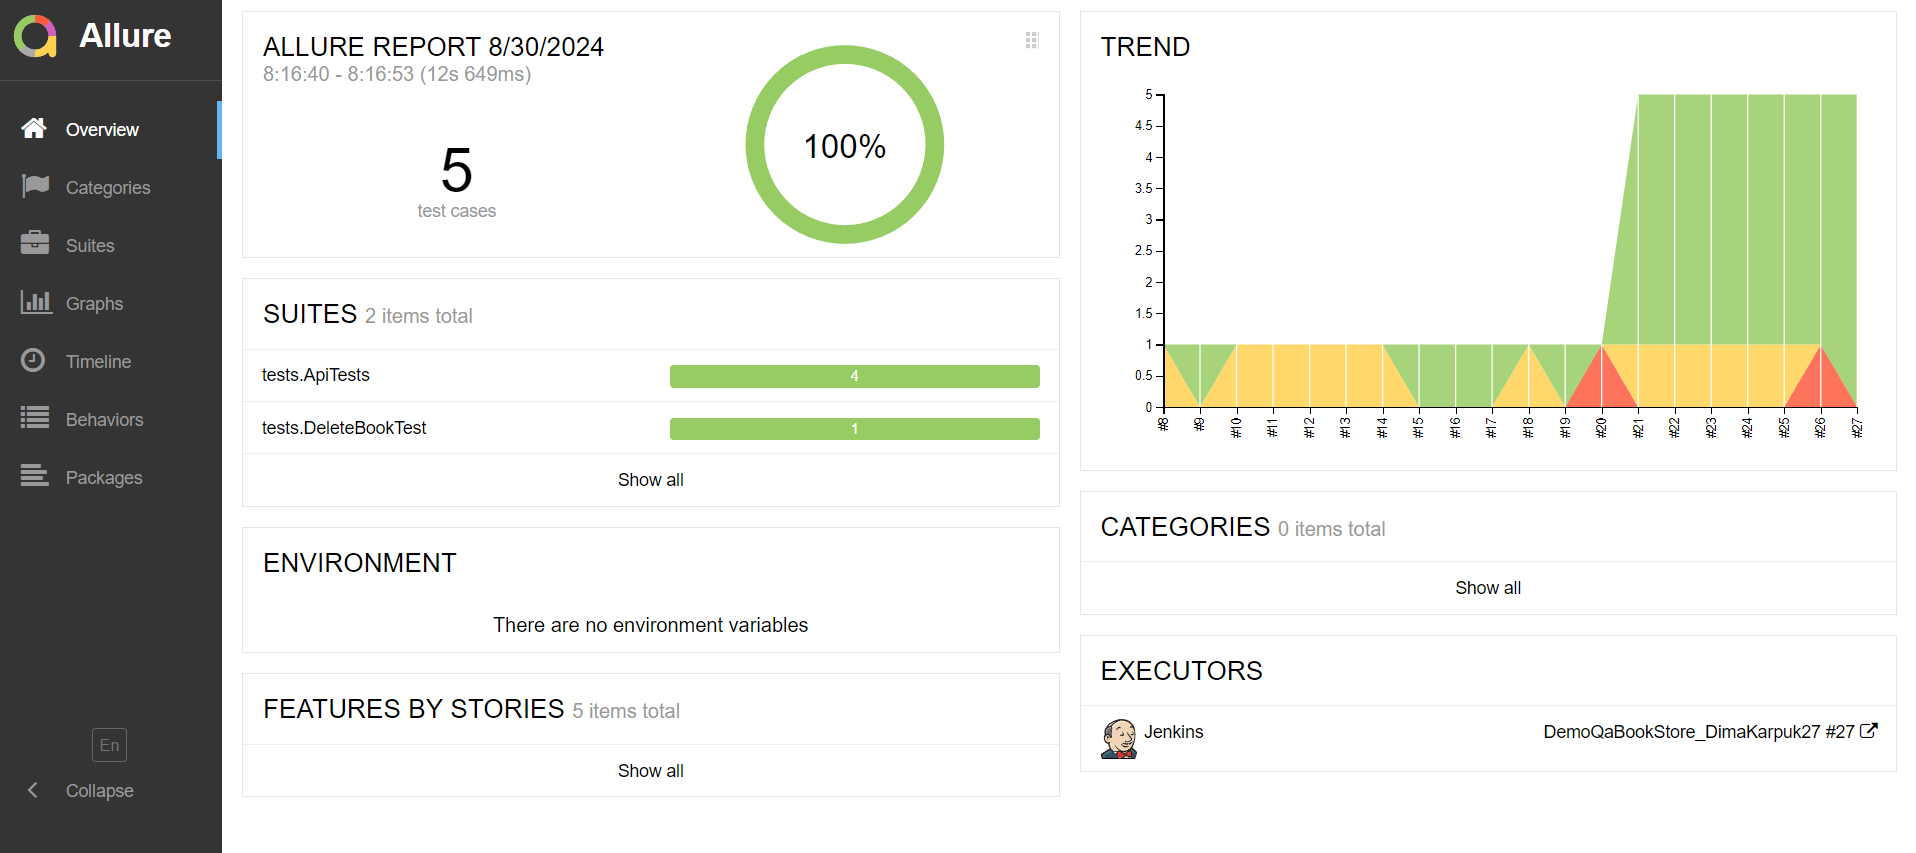
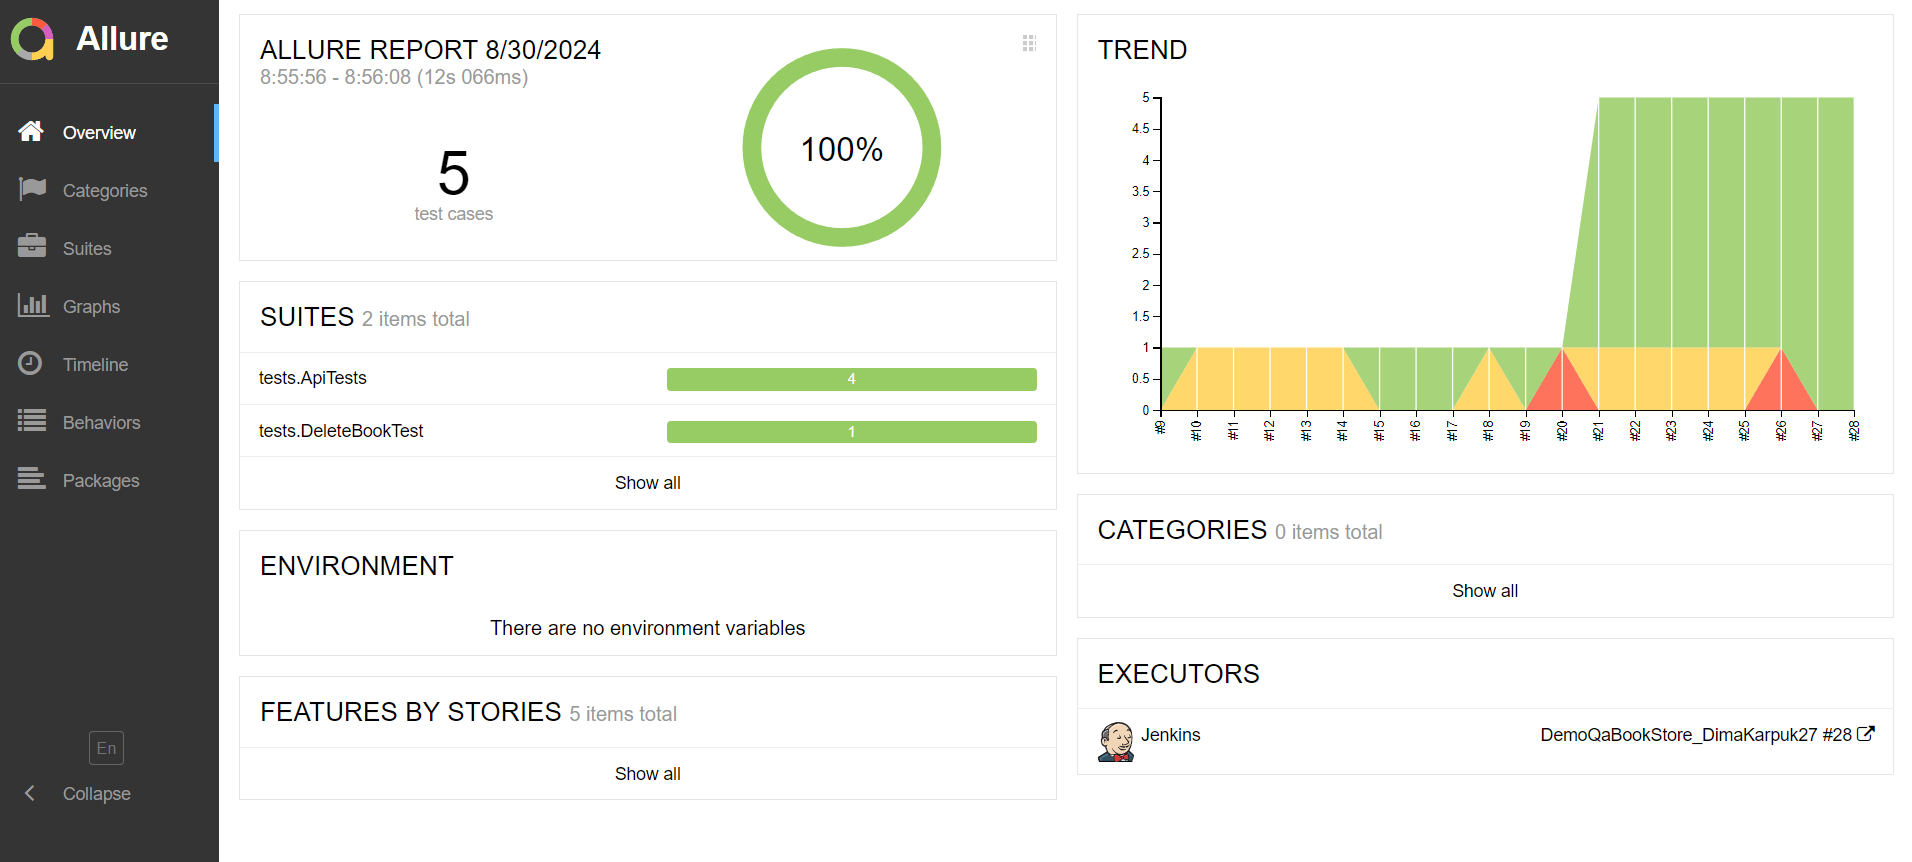
added gif

diff --git a/README.md b/README.md
@@ -69,7 +69,7 @@ gradle clean test --DbrowserHost=remote
 ---
 
 <a id="allureReport"></a>
-## <img alt="Allure" height="25" src="media/logo/Allure_Report.svg" width="25"/> </a>Интеграция с <a target="_blank" href="https://jenkins.autotests.cloud/job/DemoQaBookStore_DimaKarpuk27/27/allure/">Allure Report</a>
+## <img alt="Allure" height="25" src="media/logo/Allure_Report.svg" width="25"/> </a>Интеграция с <a target="_blank" href="https://jenkins.autotests.cloud/job/DemoQaBookStore_DimaKarpuk27/28/allure/">Allure Report</a>
 
 ## 🖨 Основная страница отчёта
 
@@ -86,18 +86,18 @@ gradle clean test --DbrowserHost=remote
 ---
 
 <a id="allure"></a>
-## <img alt="Allure_TO" height="25" src="media/logo/allureTe.svg" width="25"/> </a>Интеграция с <a target="_blank" href="https://allure.autotests.cloud/project/4392/dashboards">Allure TestOps</a>
+## <img alt="Allure_TO" height="25" src="media/logo/allureTe.svg" width="25"/> </a>Интеграция с <a target="_blank" href="https://allure.autotests.cloud/project/4407/dashboards">Allure TestOps</a>
 
 ## 🖨 Основная страница отчёта
 
 <p align="center">  
-<img title="Allure TestOps Dashboard" src="media/screen/allureT.png" width="850">  
+<img title="Allure TestOps Dashboard" src="media/screenshot/allureT.png" width="850">  
 </p>  
 
 ## 📄 Авто тест-кейсы
 
 <p align="center">  
-<img title="Allure Tests" src="media/screen/alluret2.png" width="850">  
+<img title="Allure Tests" src="media/screenshot/alluret1.png" width="850">  
 </p>
 
 ---
@@ -105,10 +105,10 @@ gradle clean test --DbrowserHost=remote
 <a id="teleg"></a>
 ## <img src="media/logo/Telegram_2019_Logo.svg" width="25" height="25"/> Уведомления в Telegram чат с ботом
 
-### Уведомление через чат бот
+### Уведомление через чат бот  
 
 <p align="center">
-<img src="media/screen/telegram.jpg" alt="Telegram" width="430" height="400">
+<img src="media/screenshot/telegram.jpg" alt="Telegram" width="330" height="300">
 </p>
 
 
@@ -125,5 +125,5 @@ gradle clean test --DbrowserHost=remote
 <a id="gif"></a>
 ####  Пример видео запуска тестов
 <p align="center">
-  <img src="media/gif/testVideo.gif">
+  <img src="media/gif/vid.gif">
 </p>
